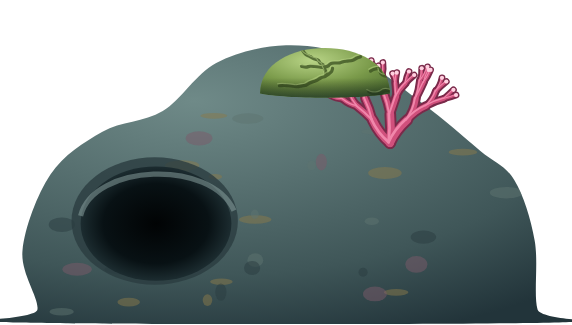
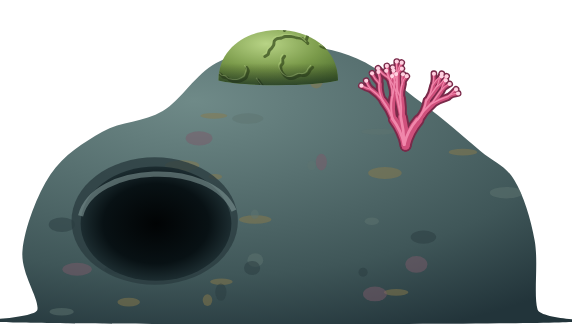
1.1.8: seahorses swim, clownfish paddle their side fins and turn cleanly, brain coral sits on the eel rock
- seahorses use the hover patrol (slow, with a gentle sway) instead of bobbing in place
- clownfish pectoral fin is its own animated part (clown_pec)
- hover turns: the tail folds in through the squeeze, and mirrored parts swing the mirrored way,
  so the tail no longer jumps or looks detached at the facing swap
- eel rock: brain coral raised onto the rock's crown, pink sea fan moved clear of it

Claude-Session: https://claude.ai/code/session_01TjXjoGUoKzCAKPjEBqhxMT

Changed region(s): [[0.3566, 0.0923, 0.8024, 0.4615]]

diff --git a/tools/make-art.js b/tools/make-art.js
@@ -214,13 +214,15 @@ asset('clown_body', 235, 145, () => {
     <ellipse cx="135" cy="44" rx="70" ry="9" fill="#fff" opacity=".35" filter="url(#b6)"/>
   </g>
   <path d="${body}" fill="none" stroke="#1a0a00" stroke-width="2" opacity=".7"/>
-  ${''/* pelvic fin hangs below the belly under the head band; pectoral fin sits in the orange just behind the head band */}
+  ${''/* pelvic fin hangs below the belly under the head band; the pectoral fin is its own moving part (clown_pec) */}
   ${fin('M156,114 C154,128 146,138 134,142 C138,130 142,120 144,112 Z', '#ff8a1a', '#111', 2.5)}
-  ${fin('M151,78 C142,82 133,92 129,104 C140,104 149,98 153,92 Z', '#ff9a33', '#111', 2.5)}
   <path d="M220,78 C215,82 210,82 205,80" stroke="#5a2400" stroke-width="2" fill="none"/>
   ${eye(198, 60, 8, '#ff9d3c')}`;
 });
-asset('clown_tail', 72, 100, () => `<defs>${lin('or', [[0, '#f26a00'], [1, '#ffab45']])}${finRays('fr', 0.22, 90, 5)}</defs>
+// pectoral fin, drawn at the body's (126,74); it sits in the orange just behind the head band and paddles
+asset('clown_pec', 32, 34, () => `<defs>${finRays('fr', 0.18, 0, 5)}</defs>
+  ${fin('M25,4 C16,8 7,18 3,30 C14,30 23,24 27,18 Z', '#ff9a33', '#111', 2.5)}`);
+asset('clown_tail', 72, 100,() => `<defs>${lin('or', [[0, '#f26a00'], [1, '#ffab45']])}${finRays('fr', 0.22, 90, 5)}</defs>
   ${fin('M70,40 C50,30 30,5 10,8 C2,30 2,70 10,92 C30,95 50,70 70,60 Z', 'url(#or)', '#111', 4)}
   <path d="M14,14 C7,35 7,65 14,86" stroke="#fff" stroke-width="3" fill="none" opacity=".8"/>`);
 
@@ -905,8 +907,9 @@ asset('rock', 572, 325, () => {
   <path d="${smooth(pts, true)}" fill="url(#r)"/><g clip-path="url(#c)">${spots}
     <ellipse cx="119" cy="170" rx="64" ry="49" fill="#2a3c40" opacity=".8"/><ellipse cx="120" cy="172" rx="58" ry="44" fill="url(#cave)"/>
     <path d="M62,166 C72,126 162,122 180,162" fill="none" stroke="#8fa8a6" stroke-width="4" opacity=".5"/></g>
-  ${branchy(300, 110, { len: 22, w: 6, depth: 3, spread: 0.5, split: 2, trunks: 3, fanOut: 0.5 }, ['#7a2a4a', '#d0507c', '#ff9fc0', '#ffd0e0']).svg}
-  ${brainCoral(250, 72, 50, 36, ['#4a6a2e', '#7a9a4a', '#b8d486'], '#3a5020')}</g>`;
+  ${''/* brain coral sits on the rock's crown, the pink sea fan further down the slope in front of it */}
+  ${brainCoral(214, 62, 46, 40, ['#4a6a2e', '#7a9a4a', '#b8d486'], '#3a5020')}
+  ${branchy(312, 112, { len: 22, w: 6, depth: 3, spread: 0.5, split: 2, trunks: 3, fanOut: 0.5 }, ['#7a2a4a', '#d0507c', '#ff9fc0', '#ffd0e0']).svg}</g>`;
 });
 
 asset('bubble', 64, 64, () => `<defs>${rad('b', [[0, '#fff', 0.05], [0.75, '#dff8ff', 0.18], [0.95, '#fff', 0.85], [1, '#fff', 0]])}</defs>
@@ -963,7 +966,7 @@ const list = sizesOnly ? [] : only.length ? assets.filter((a) => only.includes(a
 if ((!only.length && !sizesOnly) || only.includes('caustics')) { caustics('caustics_a', 11); caustics('caustics_b', 29); }
 const profile = path.join(TMP, 'chrome-profile');
 // Roku can't mirror images with negative scale, so creatures also get a pre-flipped "_l" (facing left) copy.
-const MIRROR = new Set(['clown_body', 'clown_tail', 'tang_body', 'tang_tail', 'ytang_body', 'ytang_tail', 'angel_body', 'angel_tail',
+const MIRROR = new Set(['clown_body', 'clown_tail', 'clown_pec','tang_body', 'tang_tail', 'ytang_body', 'ytang_tail', 'angel_body', 'angel_tail',
   'school_fish', 'shark_body', 'shark_tail', 'turtle_body', 'turtle_flipper', 'turtle_rear', 'manta', 'whale',
   'octo_body', 'octo_arms', 'dolphin_body', 'dolphin_tail', 'lion_body', 'lion_fin', 'lion_tail', 'seahorse', 'seahorse_fin', 'crab_legs', 'diver_body', 'diver_leg', 'shrimp', 'shrimp_finger']);
 const jobs = [];

diff --git a/store/LISTING.md b/store/LISTING.md
@@ -27,7 +27,7 @@ Settings (Settings > Theme > Screensavers > Reefscape > Custom settings):
 No account, no ads, no internet connection needed, and no data collected.
 
 ## Release notes
-1.1.7: Garden eels, fish that scatter from sharks, full-moon coral spawning, sea stars that crawl, Scuba Steve the diver, and smoother animation on older Roku models.
+1.1.8: Garden eels, fish that scatter from sharks, full-moon coral spawning, sea stars that crawl, seahorses that swim, Scuba Steve the diver, and smoother animation on older Roku models.
 
 1.0: First release.
 
@@ -46,7 +46,7 @@ No account, no ads, no internet connection needed, and no data collected.
 - Screenshots 1920x1080: screenshots/1-reef-day.jpg ... 6-clock.jpg (settings-screen.jpg is a spare)
 
 ## Package
-- ../signing/Reefscape-1.1.7.pkg (signed; keep ../signing/SIGNING-KEY.txt safe)
+- ../signing/Reefscape-1.1.8.pkg (signed; keep ../signing/SIGNING-KEY.txt safe)
 
 ## Web pages the profile asks for
 - Privacy policy: privacy-policy.html
